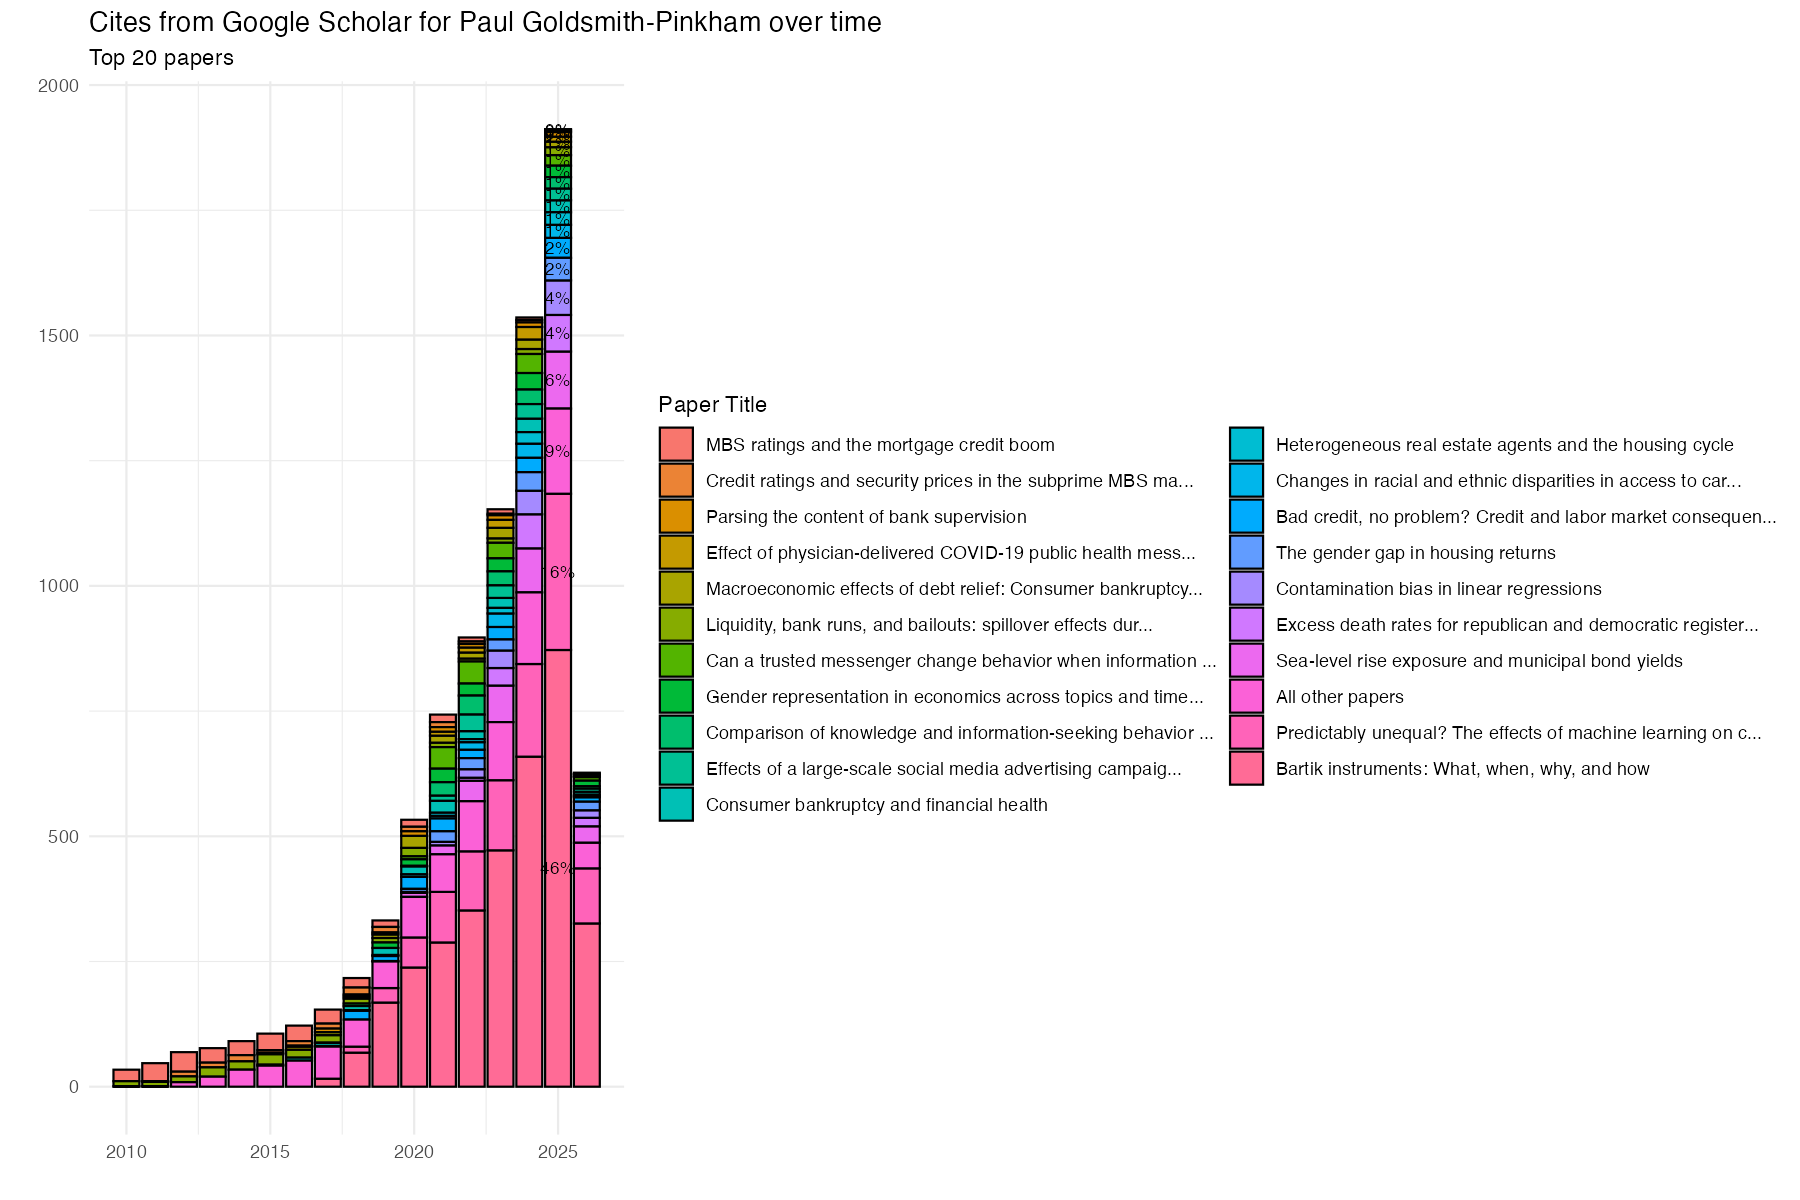
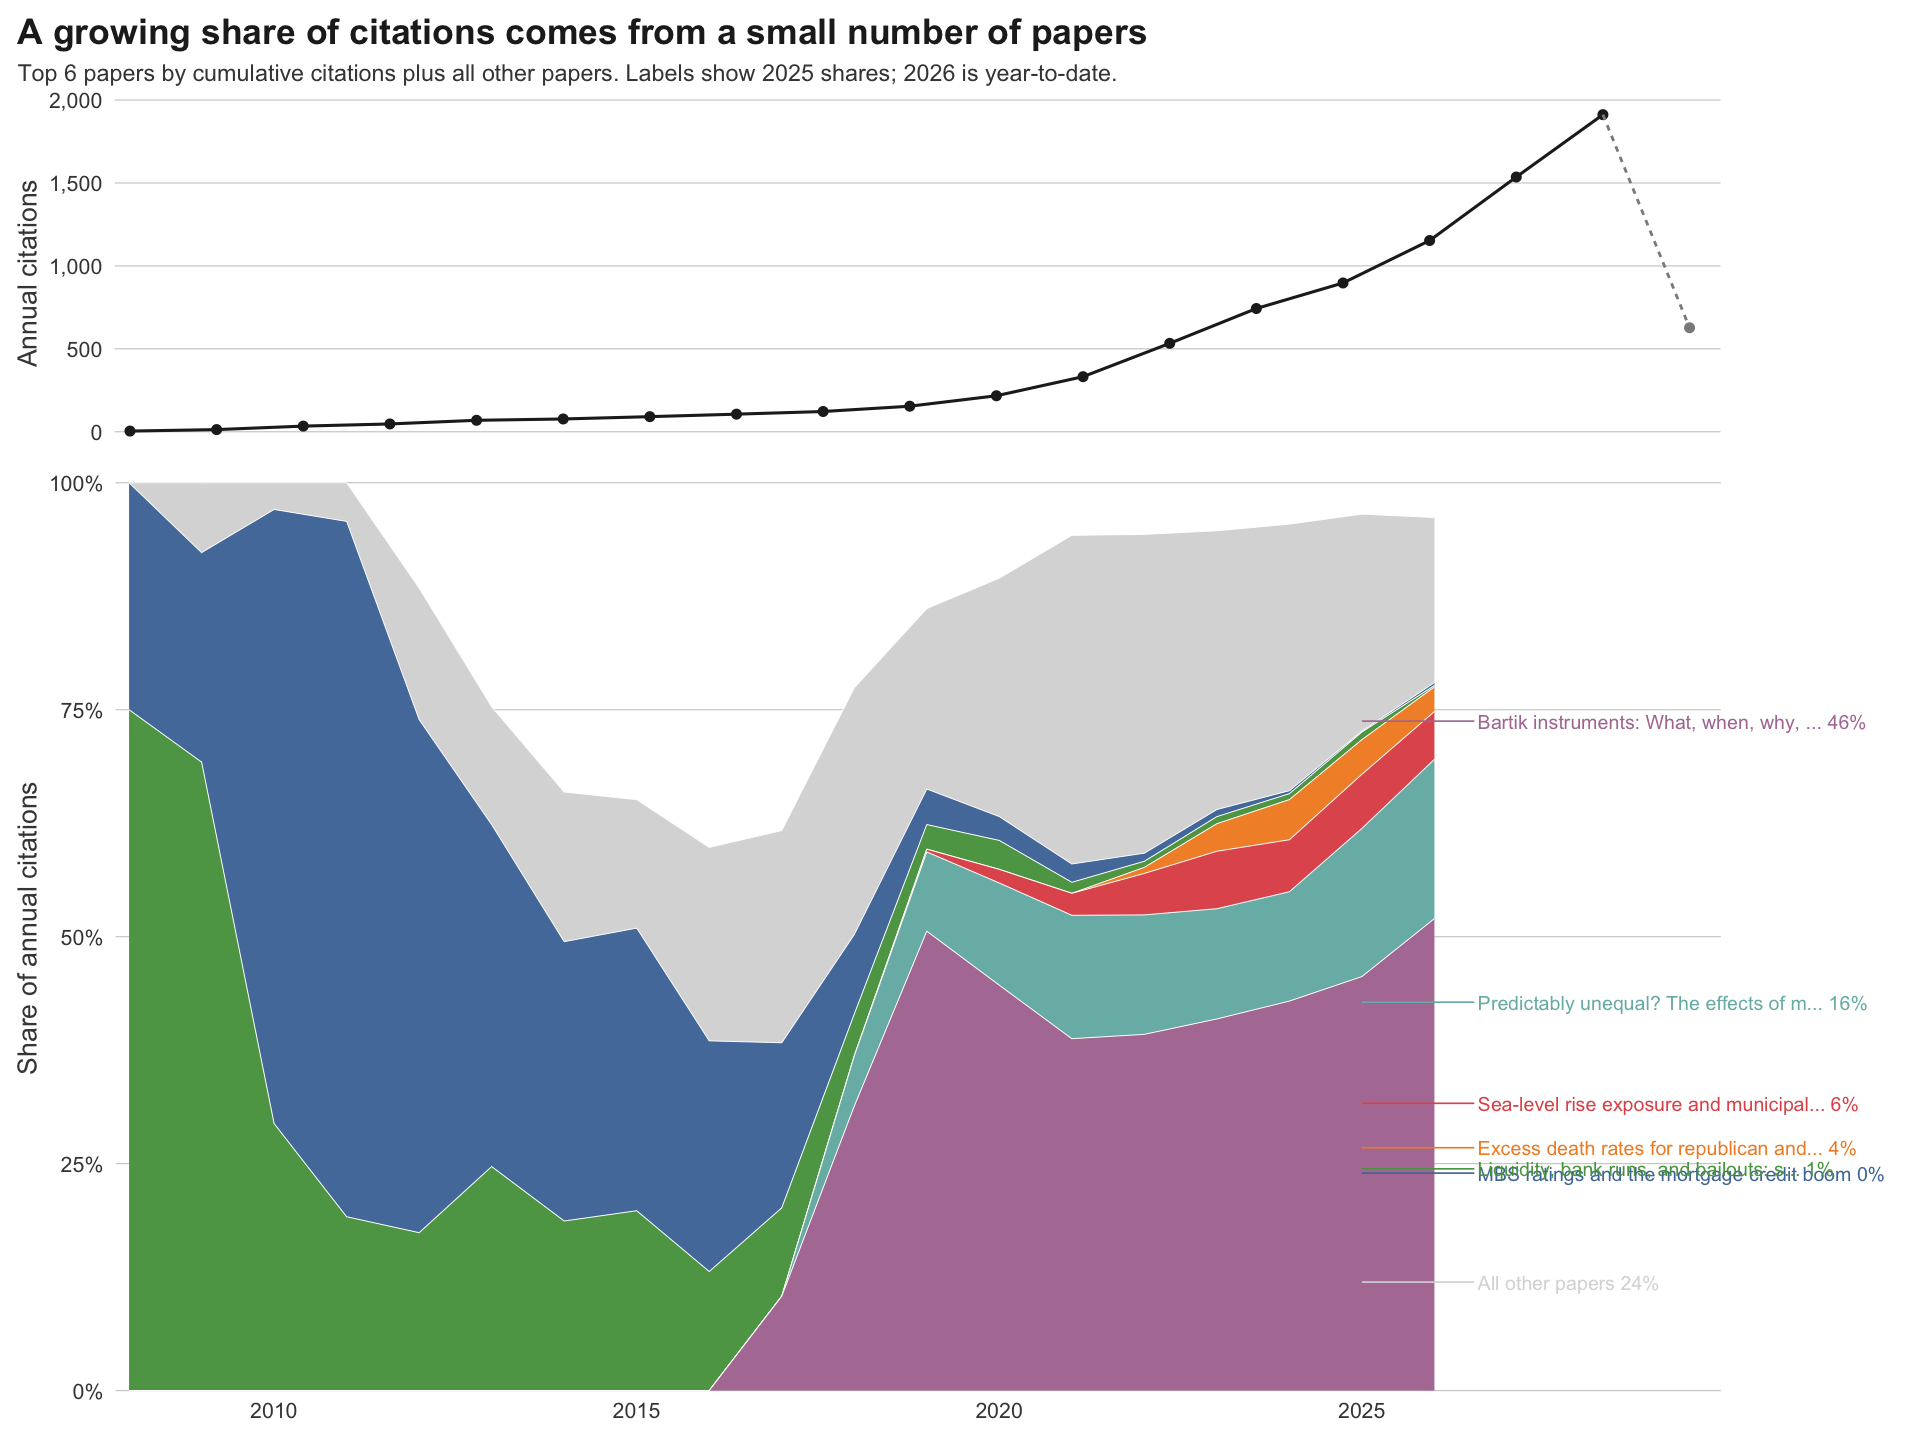
feat: adopt healy-style composition graph

diff --git a/tests/test_scholar_pipeline.py b/tests/test_scholar_pipeline.py
@@ -10,6 +10,7 @@ import scholar_api
 ROOT = Path(__file__).resolve().parents[1]
 SAMPLE = ROOT / "tests" / "data" / "sample_time_series.csv"
 SAMPLE_GAPS = ROOT / "tests" / "data" / "sample_time_series_gaps.csv"
+SAMPLE_EARLY_PAPERS = ROOT / "tests" / "data" / "sample_time_series_early_papers.csv"
 
 
 class ScholarApiTests(unittest.TestCase):
@@ -88,6 +89,33 @@ class RScriptSmokeTests(unittest.TestCase):
             self.assertEqual(result.returncode, 0, msg=result.stderr)
             hindex_rows = (out_dir / "paulgp_hindex.csv").read_text().strip().splitlines()
             self.assertEqual(hindex_rows, ["year,hindex", "2019,2", "2020,2"])
+
+    def test_make_graph_r_reports_healy_style_components(self):
+        with tempfile.TemporaryDirectory() as tmp:
+            png_path = Path(tmp) / "paulgp_citation_share.png"
+            result = subprocess.run(
+                ["Rscript", "make_graph.R", str(SAMPLE), str(png_path)],
+                cwd=ROOT,
+                capture_output=True,
+                text=True,
+            )
+            self.assertEqual(result.returncode, 0, msg=result.stderr)
+            self.assertEqual(result.stderr, "")
+            self.assertIn("Graph design: total_line + share_area, top_n=6", result.stdout)
+            self.assertTrue(png_path.exists())
+
+    def test_make_graph_r_handles_paper_years_before_total_series(self):
+        with tempfile.TemporaryDirectory() as tmp:
+            png_path = Path(tmp) / "paulgp_citation_share.png"
+            result = subprocess.run(
+                ["Rscript", "make_graph.R", str(SAMPLE_EARLY_PAPERS), str(png_path)],
+                cwd=ROOT,
+                capture_output=True,
+                text=True,
+            )
+            self.assertEqual(result.returncode, 0, msg=result.stderr)
+            self.assertEqual(result.stderr, "")
+            self.assertTrue(png_path.exists())
 
     def test_make_graph_r_writes_png(self):
         with tempfile.TemporaryDirectory() as tmp:

diff --git a/docs/plans/2026-04-13-healy-graph-style.md b/docs/plans/2026-04-13-healy-graph-style.md
@@ -1,0 +1,86 @@
+# Healy-Style Graph Implementation Plan
+
+**Goal:** Update `make_graph.R` to produce a cleaner composition-focused figure in a Kieran Healy-inspired style while preserving the existing CLI workflow.
+**Architecture:** Replace the single stacked bar chart with a two-panel composition figure: a top panel for total annual citations and a bottom panel for annual citation shares among the top papers plus an "All other papers" residual. Keep the script as a standalone R entrypoint and add regression tests that verify the new output metadata and chart generation behavior.
+**Tech Stack:** R (`tidyverse`, `ggplot2`, `grid`), Python `unittest` smoke tests.
+
+- [x] Task 1: Add failing regression tests for the new graph metadata and output behavior ✅
+- [x] Task 2: Refactor `make_graph.R` to build the Healy-style two-panel composition chart ✅
+- [x] Task 3: Regenerate the graph output and verify the full test suite ✅
+
+### Task 1: Add failing regression tests for the new graph metadata and output behavior
+
+**Files:**
+- Modify: `tests/test_scholar_pipeline.py`
+- Test: `tests/data/sample_time_series.csv`
+
+**Step 1: Write the failing test**
+Add a test that runs `make_graph.R`, captures stdout, and asserts that the script reports the new design elements: a top-panel total series and a bottom-panel share composition with top 6 papers plus residual.
+
+**Step 2: Run test to verify it fails**
+Run: `.venv/bin/python -m unittest tests.test_scholar_pipeline.RScriptSmokeTests.test_make_graph_r_reports_healy_style_components -v`
+Expected: FAIL because the current script only writes a generic PNG message and still uses a stacked bar chart design.
+
+**Step 3: Write minimal implementation**
+Update `make_graph.R` so it emits a structured status line describing the generated graph components, e.g. `Graph design: total_line + share_area, top_n=6`.
+
+**Step 4: Run test to verify it passes**
+Run: `.venv/bin/python -m unittest tests.test_scholar_pipeline.RScriptSmokeTests.test_make_graph_r_reports_healy_style_components -v`
+Expected: PASS.
+
+**Step 5: Commit**
+```bash
+git add tests/test_scholar_pipeline.py make_graph.R
+git commit -m "test: cover healy style graph output"
+```
+
+### Task 2: Refactor `make_graph.R` to build the Healy-style two-panel composition chart
+
+**Files:**
+- Modify: `make_graph.R`
+- Test: `tests/test_scholar_pipeline.py`
+
+**Step 1: Write the failing test**
+Extend the existing smoke test expectations to validate the new stdout metadata and successful PNG generation together.
+
+**Step 2: Run test to verify it fails**
+Run: `.venv/bin/python -m unittest tests.test_scholar_pipeline.RScriptSmokeTests -v`
+Expected: FAIL on the metadata assertion while the old PNG smoke test may still pass.
+
+**Step 3: Write minimal implementation**
+Implement:
+- top 6 papers by cumulative citations + residual
+- top panel line chart for total annual citations
+- bottom panel 100% stacked area chart of shares
+- restrained theme, muted palette, minimal grid, no legend
+- right-edge direct labels for the composition panel
+- single PNG output using base `grid` layout
+
+**Step 4: Run test to verify it passes**
+Run: `.venv/bin/python -m unittest tests.test_scholar_pipeline.RScriptSmokeTests -v`
+Expected: PASS.
+
+**Step 5: Commit**
+```bash
+git add make_graph.R tests/test_scholar_pipeline.py
+git commit -m "feat: switch to healy-style composition graph"
+```
+
+### Task 3: Regenerate the graph output and verify the full test suite
+
+**Files:**
+- Modify: `outputs/paulgp_citation_share.png`
+
+**Step 1: Regenerate the graph**
+Run: `Rscript make_graph.R paulgp_time_series.csv outputs/paulgp_citation_share.png`
+Expected: updated graph PNG is written.
+
+**Step 2: Run the full test suite**
+Run: `.venv/bin/python -m unittest discover -s tests -v`
+Expected: PASS.
+
+**Step 3: Commit**
+```bash
+git add outputs/paulgp_citation_share.png
+git commit -m "chore: refresh healy style graph output"
+```

diff --git a/docs/designs/2026-04-13-healy-graph-style.md b/docs/designs/2026-04-13-healy-graph-style.md
@@ -1,0 +1,27 @@
+# Healy-Style Citation Composition Figure
+
+**Goal:** Replace the existing stacked bar chart with a cleaner composition-focused figure inspired by Kieran Healy's visual style.
+
+## Approach
+- Use a two-panel layout.
+- Top panel: total annual citations as a restrained line chart.
+- Bottom panel: annual citation-share composition as a 100% stacked area chart.
+- Limit featured categories to the top 6 papers by cumulative citations, plus an `All other papers` residual.
+- Use direct labels at the right edge instead of a legend.
+
+## Key Decisions
+- Keep the existing CLI contract: `Rscript make_graph.R <input_csv> <output_png>`.
+- Use muted colors and a light minimal theme.
+- When the final year looks partial relative to the previous year, use the previous year for direct-label shares.
+- Backfill missing early total-series years with sums from paper-level data so the chart remains well-defined.
+
+## Constraints
+- Stay within existing tidyverse + base R grid tooling.
+- Avoid adding a new R package dependency just to compose the panels.
+- Preserve automated testability from Python smoke tests.
+
+## Success Criteria
+- The chart foregrounds composition rather than a crowded legend.
+- The output is visually cleaner than the prior stacked bars.
+- The script runs without warnings on representative data.
+- The PNG output is regenerated through the normal repository workflow.
